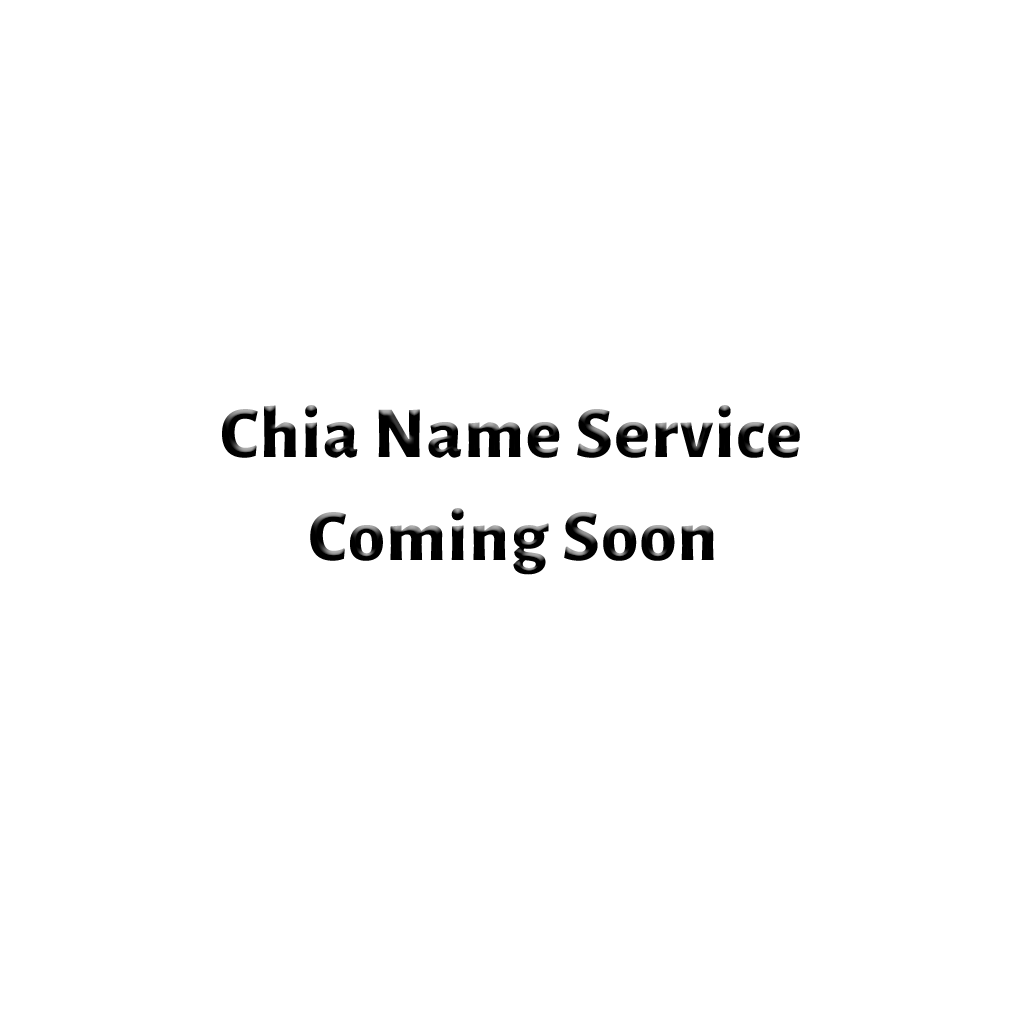
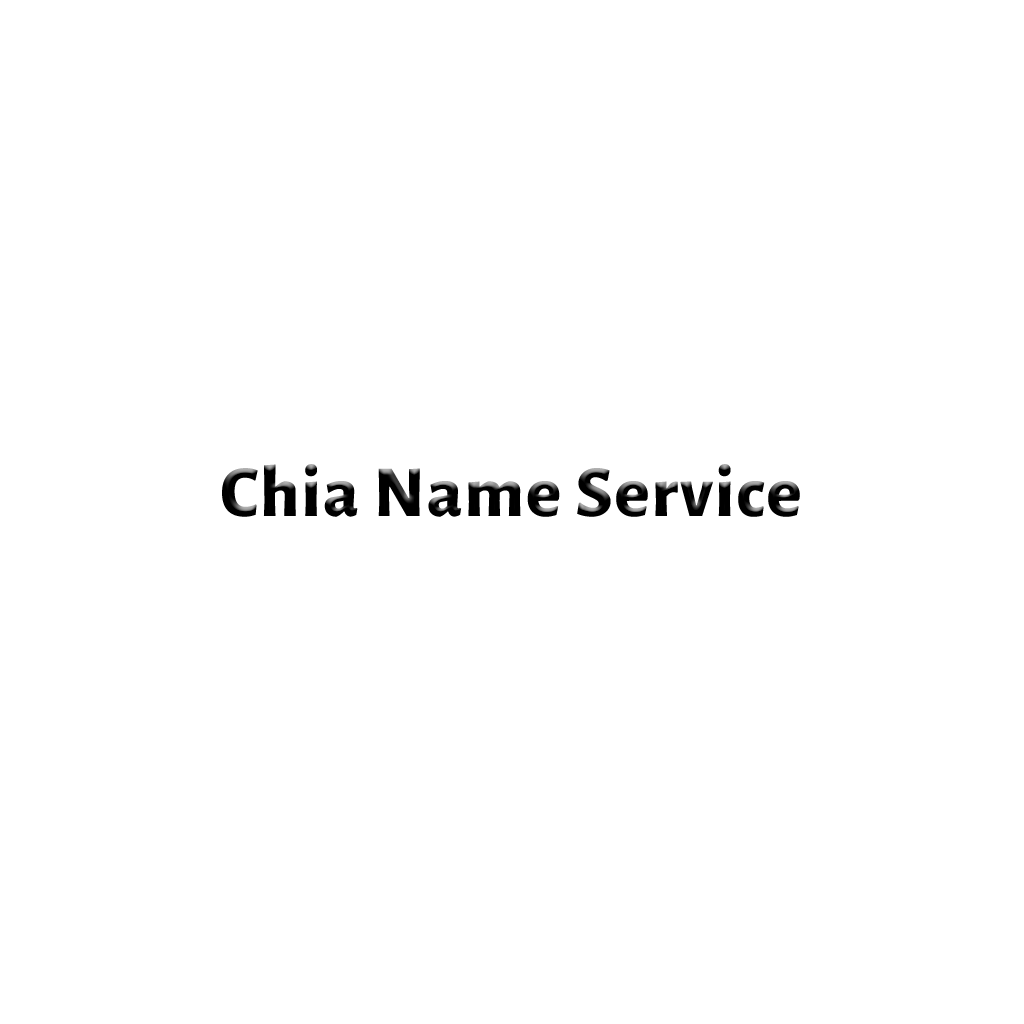
change text picture

Changed region(s): [[0.2188, 0.375, 0.7812, 0.5625]]

diff --git a/src/js/index.js b/src/js/index.js
@@ -71,7 +71,7 @@ const textures = [
     maskId: CubeMasks.M3,
   },
   {
-    texture: Texture(regl, 'text-1.png'),
+    texture: Texture(regl, 'text-2.png'),
     typeId: ContentTypes.BLUE,
     maskId: CubeMasks.M4,
   },
